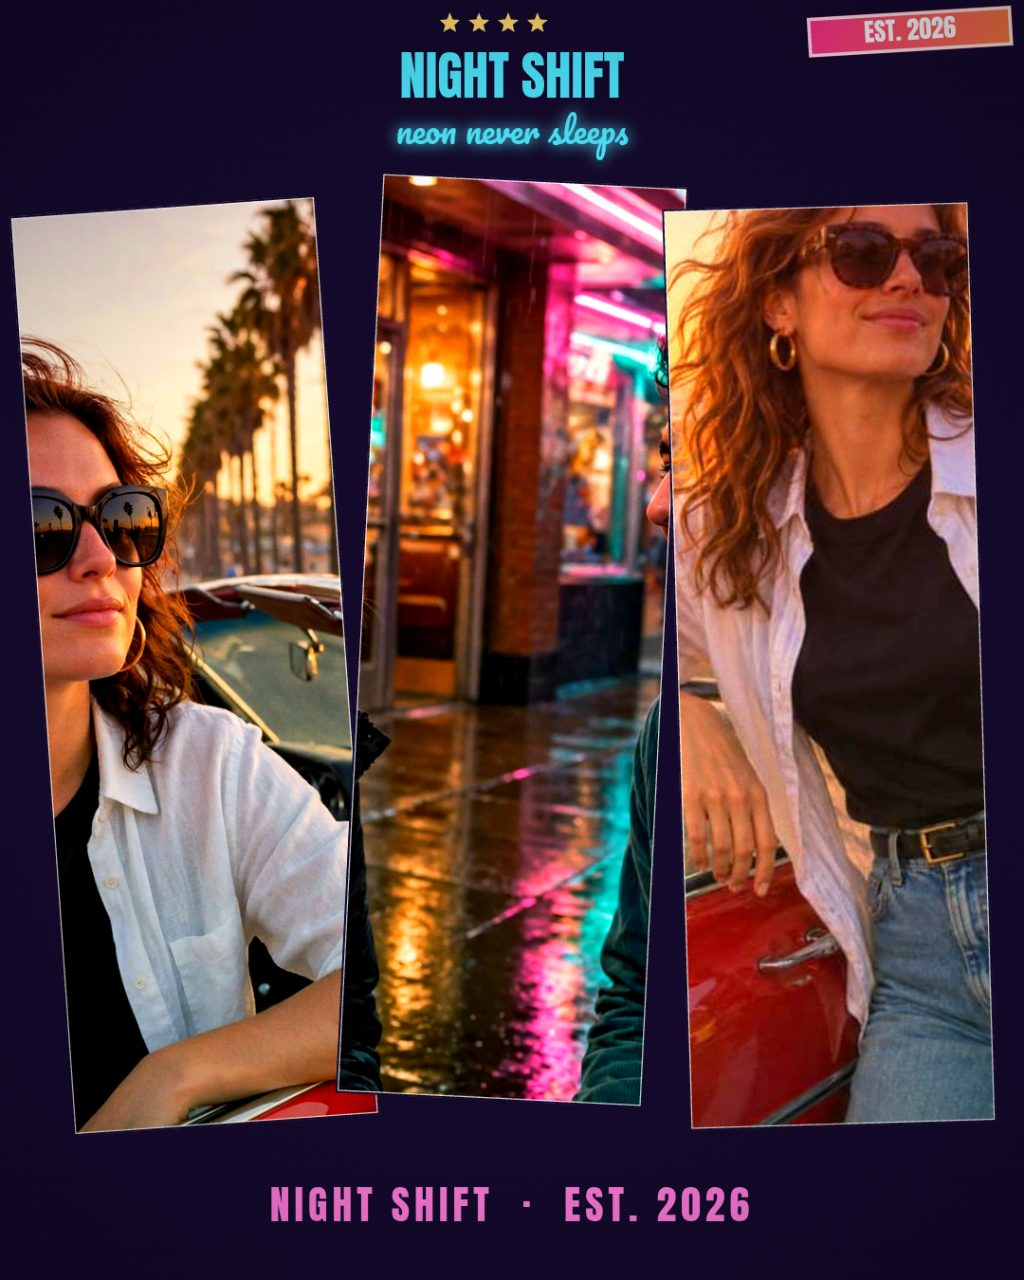
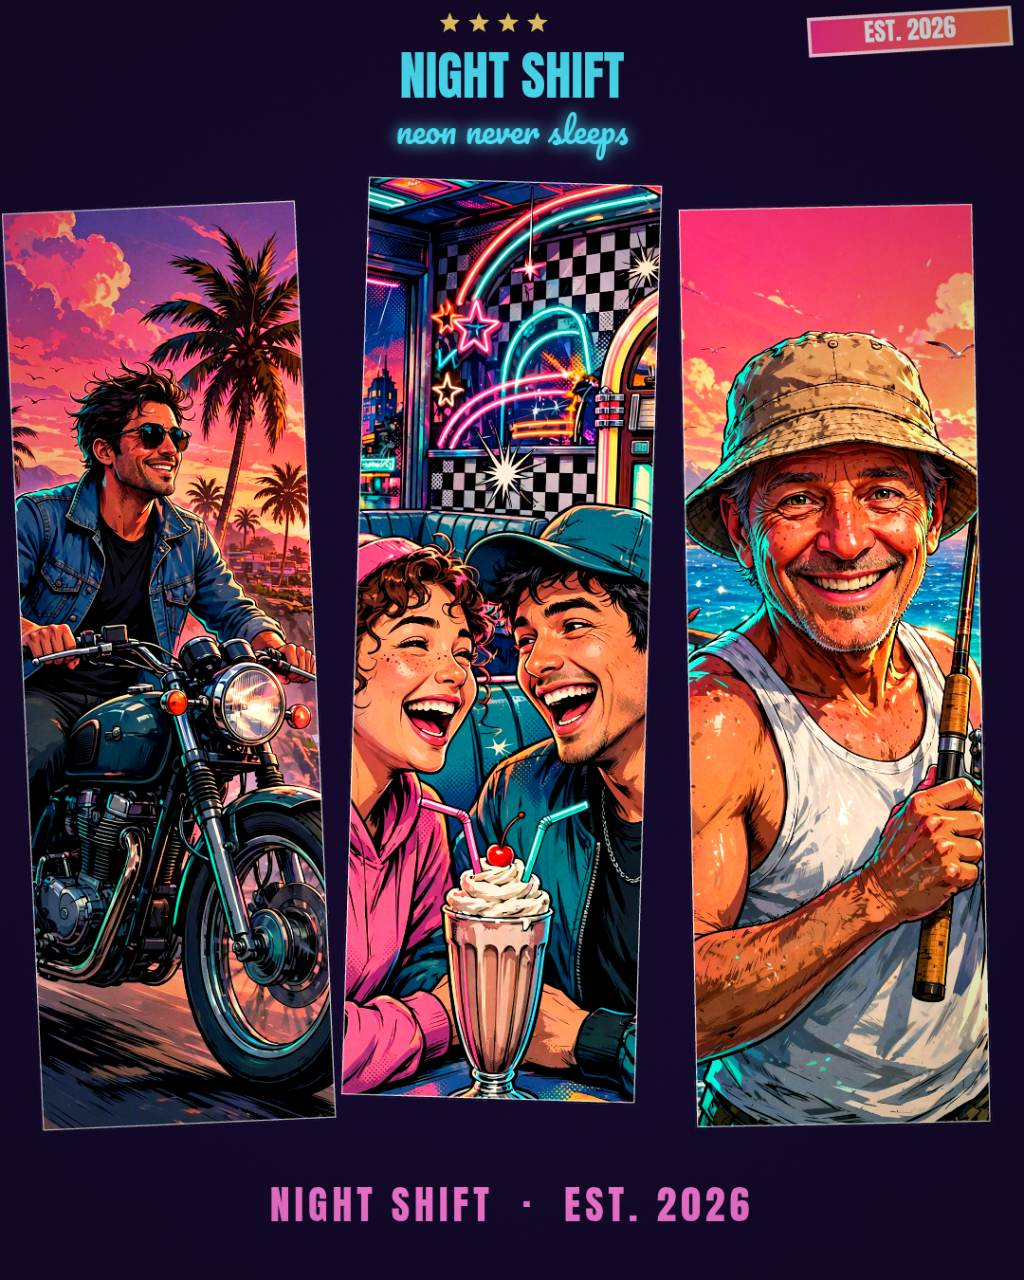
Neon Coast Cover Studio: 6 layouts, 5 grades, Anton+Pacifico, undo/redo, 3-size export

diff --git a/app/src/cover.js b/app/src/cover.js
@@ -7,6 +7,7 @@
 
 export const LAYOUTS = [
   { id: 'grid9', name: 'Nine Panel', panels: 8 },
+  { id: 'collage', name: 'Collage', panels: 9 },
   { id: 'hero3', name: 'Hero + 3', panels: 4 },
   { id: 'fullbleed', name: 'Full Bleed', panels: 1 },
   { id: 'tilted', name: 'Tilted Snaps', panels: 3 },
@@ -53,18 +54,20 @@ export const SIZES = [
   { id: 'wide', label: 'Wide 1920 x 1080', w: 1920, h: 1080 },
 ];
 
-/** A fresh default state. `panels` holds nine crop configs; each layout uses the ones it needs. */
+/** A fresh default state. `panels` holds nine crop configs; each layout uses the ones it needs.
+ * Every panel uses a DIFFERENT sample photo (no repeats), and each crop is
+ * centred on its photo's face, so no face is ever cut by a panel edge. */
 export function defaultState() {
   const crops = [
-    { photo: 0, cx: 0.5, cy: 0.42, zoom: 1.15 },
-    { photo: 1, cx: 0.5, cy: 0.5, zoom: 1.1 },
-    { photo: 2, cx: 0.5, cy: 0.55, zoom: 1.2 },
-    { photo: 3, cx: 0.5, cy: 0.5, zoom: 1.0 },
-    { photo: 1, cx: 0.62, cy: 0.45, zoom: 1.35 },
-    { photo: 0, cx: 0.38, cy: 0.5, zoom: 1.25 },
-    { photo: 3, cx: 0.5, cy: 0.6, zoom: 1.15 },
-    { photo: 2, cx: 0.45, cy: 0.45, zoom: 1.3 },
-    { photo: 0, cx: 0.55, cy: 0.5, zoom: 1.05 },
+    { photo: 12, cx: 0.25, cy: 0.50, zoom: 1.0 },  // mafia: landscape art, mobster on the left
+    { photo: 13, cx: 0.55, cy: 0.50, zoom: 1.0 },  // bikini-drink: face + cocktail
+    { photo: 14, cx: 0.55, cy: 0.55, zoom: 1.0 },  // lambo: driver face clear of the V logo's top edge
+    { photo: 8, cx: 0.70, cy: 0.47, zoom: 1.4 },   // convertible: red classic, driver zoomed big
+    { photo: 6, cx: 0.5, cy: 0.25, zoom: 1.3 },    // skater: face fully in frame, not under the title
+    { photo: 4, cx: 0.45, cy: 0.40, zoom: 1.3 },   // lifeguard: face + chest tattoos in frame
+    { photo: 9, cx: 0.57, cy: 0.55, zoom: 1.0 },   // oceandrive: Black rider standing stunt on a sport bike, neon street
+    { photo: 10, cx: 0.55, cy: 0.55, zoom: 1.0 },  // alligator: head right, low in frame
+    { photo: 11, cx: 0.5, cy: 0.58, zoom: 1.0 },   // dog: bar trio — guy with pistol, two girls with cocktails; cy 0.58 keeps faces + pistol in the wide slot
   ];
   return {
     layout: 'grid9',
@@ -111,6 +114,22 @@ export function layoutSlots(layoutId, W, H) {
         }
       }
     }
+  } else if (layoutId === 'collage') {
+    // A key-art collage, not a uniform grid: two tall panels down the left
+    // (mafia, bikini), two wide car panels across the top, three mid panels
+    // and two wide panels at the foot, with the title block overlapping the
+    // top/middle seam in the centre like a poster logo. Panel sizes vary on
+    // purpose; every slot shows a different photo, nine in all.
+    slots.push({ x: 0, y: 0, w: W * 0.25, h: H * 0.50, panel: 0, rot: 0, kind: 'photo' });
+    slots.push({ x: 0, y: H * 0.50, w: W * 0.25, h: H * 0.50, panel: 1, rot: 0, kind: 'photo' });
+    slots.push({ x: W * 0.25, y: 0, w: W * 0.37, h: H * 0.34, panel: 2, rot: 0, kind: 'photo' });
+    slots.push({ x: W * 0.62, y: 0, w: W * 0.38, h: H * 0.34, panel: 3, rot: 0, kind: 'photo' });
+    slots.push({ x: W * 0.25, y: H * 0.34, w: W * 0.25, h: H * 0.33, panel: 4, rot: 0, kind: 'photo' });
+    slots.push({ x: W * 0.50, y: H * 0.34, w: W * 0.25, h: H * 0.33, panel: 5, rot: 0, kind: 'photo' });
+    slots.push({ x: W * 0.75, y: H * 0.34, w: W * 0.25, h: H * 0.33, panel: 6, rot: 0, kind: 'photo' });
+    slots.push({ x: W * 0.25, y: H * 0.67, w: W * 0.37, h: H * 0.33, panel: 7, rot: 0, kind: 'photo' });
+    slots.push({ x: W * 0.62, y: H * 0.67, w: W * 0.38, h: H * 0.33, panel: 8, rot: 0.03, kind: 'photo' });
+    slots.push({ x: W * 0.29, y: H * 0.22, w: W * 0.36, h: H * 0.32, panel: -1, rot: 0, kind: 'logo' });
   } else if (layoutId === 'hero3') {
     const hw = W * 0.62;
     const rw = W - hw - g;
@@ -125,12 +144,15 @@ export function layoutSlots(layoutId, W, H) {
     slots.push({ x: 0, y: H * 0.72, w: W, h: H * 0.28, panel: -1, rot: 0, kind: 'band', bandStyle: 'bottom' });
   } else if (layoutId === 'tilted') {
     slots.push({ x: 0, y: 0, w: W, h: H * 0.13, panel: -1, rot: 0, kind: 'band', bandStyle: 'top' });
-    const cw = W * 0.3;
+    // Narrower cards with wider gaps and gentler tilts: a rotated card's
+    // corner must never cross the gap into its neighbour, or a sliver of the
+    // neighbour's face peeks out at the card edge.
+    const cw = W * 0.29;
     const ch = H * 0.72;
     const y = H * 0.16;
-    slots.push({ x: W * 0.04, y, w: cw, h: ch, panel: 0, rot: -0.07, kind: 'photo' });
-    slots.push({ x: W * 0.35, y: y - H * 0.02, w: cw, h: ch, panel: 1, rot: 0.05, kind: 'photo' });
-    slots.push({ x: W * 0.66, y, w: cw, h: ch, panel: 2, rot: -0.03, kind: 'photo' });
+    slots.push({ x: W * 0.02, y, w: cw, h: ch, panel: 0, rot: -0.045, kind: 'photo' });
+    slots.push({ x: W * 0.345, y: y - H * 0.02, w: cw, h: ch, panel: 1, rot: 0.03, kind: 'photo' });
+    slots.push({ x: W * 0.67, y, w: cw, h: ch, panel: 2, rot: -0.02, kind: 'photo' });
     slots.push({ x: 0, y: H * 0.92, w: W, h: H * 0.05, panel: -1, rot: 0, kind: 'footer' });
   } else if (layoutId === 'sleeve6') {
     const cw = (W - 2 * g) / 3;
@@ -327,6 +349,96 @@ function drawTitleBlock(ctx, slot, state, grade, W, H) {
     try { ctx.letterSpacing = `${Math.max(1, size * 0.12)}px`; } catch { /* older canvas */ }
     ctx.fillText(text, x + w / 2, y + h / 2);
     try { ctx.letterSpacing = '0px'; } catch { /* older canvas */ }
+    ctx.restore();
+    return;
+  }
+
+  // Collage logo block: a slim V chevron (after the big V silhouette in
+  // Risma's reference — the shape only, never the Rockstar logo itself),
+  // sunset-gradient fill, white Anton text with a dark outline. The V covers
+  // far less of the photos than the old wide rectangle (its point sits
+  // between the skater and lifeguard panels, below both faces), and the type
+  // is nearly twice as big. The subtitle floats just under the point.
+  if (kind === 'logo') {
+    const cx = x + w / 2;
+    const logoTitle = (state.title || 'NEON COAST').toUpperCase();
+    const logoLines = logoTitle.split(/\s+/).filter(Boolean);
+    const grad = ctx.createLinearGradient(x, y, x + w, y + h);
+    grad.addColorStop(0, '#7c5cff');
+    grad.addColorStop(0.45, '#ff5e9c');
+    grad.addColorStop(1, '#ff8a3c');
+    ctx.beginPath();
+    ctx.moveTo(x, y);
+    ctx.lineTo(x + w, y);
+    ctx.lineTo(cx, y + h);
+    ctx.closePath();
+    ctx.fillStyle = grad;
+    ctx.fill();
+    ctx.lineWidth = Math.max(3, w * 0.012);
+    ctx.strokeStyle = '#14092b';
+    ctx.stroke();
+    ctx.lineWidth = Math.max(1, w * 0.003);
+    ctx.strokeStyle = 'rgba(255,46,136,0.9)';
+    ctx.stroke();
+
+    const pad = w * 0.04;
+    const bandH = h * 0.30;
+    const lineTs = [0.30, 0.58];
+    let size = bandH;
+    logoLines.forEach((line, i) => {
+      const t = i < lineTs.length ? lineTs[i] : 0.58 + 0.22 * (i - 1);
+      const maxW = w * (1 - t) - pad * 2;
+      size = Math.min(size, fitFont(ctx, line, 'Anton, sans-serif', 400, maxW, bandH));
+    });
+    size = Math.max(10, size);
+    ctx.textAlign = 'center';
+    ctx.textBaseline = 'middle';
+    logoLines.forEach((line, i) => {
+      const t = i < lineTs.length ? lineTs[i] : 0.58 + 0.22 * (i - 1);
+      const cy = y + h * t;
+      ctx.font = `400 ${size}px Anton, sans-serif`;
+      ctx.lineWidth = Math.max(1, size * 0.08);
+      ctx.strokeStyle = '#14092b';
+      ctx.strokeText(line, cx, cy);
+      ctx.fillStyle = '#ffffff';
+      ctx.fillText(line, cx, cy);
+    });
+    const sub = (state.subtitle || '').trim();
+    if (sub) {
+      // The tagline rides on a small dark pill just under the point, so it
+      // stays readable over the busy photos instead of sprawling across
+      // the skater's and lifeguard's necks.
+      const subSize = fitFont(ctx, sub, 'Pacifico, cursive', 400, w * 0.85, h * 0.13);
+      ctx.font = `400 ${subSize}px Pacifico, cursive`;
+      const subY = y + h + h * 0.10;
+      const textW = ctx.measureText(sub).width;
+      const pillW = textW + subSize * 1.2;
+      const pillH = subSize * 1.9;
+      const px = cx - pillW / 2;
+      const py = subY - pillH / 2;
+      const r = pillH / 2;
+      ctx.beginPath();
+      ctx.moveTo(px + r, py);
+      ctx.lineTo(px + pillW - r, py);
+      ctx.arcTo(px + pillW, py, px + pillW, py + r, r);
+      ctx.lineTo(px + pillW, py + pillH - r);
+      ctx.arcTo(px + pillW, py + pillH, px + pillW - r, py + pillH, r);
+      ctx.lineTo(px + r, py + pillH);
+      ctx.arcTo(px, py + pillH, px, py + pillH - r, r);
+      ctx.lineTo(px, py + r);
+      ctx.arcTo(px, py, px + r, py, r);
+      ctx.closePath();
+      ctx.fillStyle = '#14092b';
+      ctx.fill();
+      ctx.lineWidth = Math.max(1, subSize * 0.06);
+      ctx.strokeStyle = '#ff2e88';
+      ctx.stroke();
+      ctx.fillStyle = grade.sub;
+      ctx.shadowColor = grade.sub;
+      ctx.shadowBlur = subSize * 0.35;
+      ctx.fillText(sub, cx, subY);
+      ctx.shadowBlur = 0;
+    }
     ctx.restore();
     return;
   }

diff --git a/app/src/shots.js b/app/src/shots.js
@@ -1,7 +1,12 @@
 // Fixed scenes for screenshots: ?shot=editor shows the page with a sample photo;
 // ?shot=cover shows the cover alone at the size the query asks for (w, h).
 // layout, grade, title, subtitle, badge, heat and halftone come from the query.
+// panels=<panel:photo:cx:cy:zoom;...> overrides individual panel crops for the
+// shot, so a screenshot can frame each photo exactly (a different photo in
+// every panel, every face whole) without changing the editor's default state.
 // window.__shotReady is set once the fonts are loaded and the cover is painted.
+import { defaultState } from './cover.js';
+
 export async function runShot(shot, query, api) {
   if (shot === 'cover') document.body.classList.add('shot-cover');
   if (shot === 'editor') document.body.classList.add('shot-editor');
@@ -16,6 +21,16 @@ export async function runShot(shot, query, api) {
   if (query.get('halftone')) patch.halftone = query.get('halftone') === '1';
   if (query.get('grain')) patch.grain = query.get('grain') === '1';
   if (query.get('vignette')) patch.vignette = query.get('vignette') === '1';
+  if (query.get('panels')) {
+    const panels = defaultState().panels.map((p) => ({ ...p }));
+    for (const part of query.get('panels').split(';')) {
+      const [panel, photo, cx, cy, zoom] = part.split(':').map(Number);
+      if (Number.isInteger(panel) && panels[panel] && Number.isInteger(photo)) {
+        panels[panel] = { photo, cx, cy, zoom };
+      }
+    }
+    patch.panels = panels;
+  }
   await api.loadSamples();
   try {
     await Promise.race([

diff --git a/app/src/main.js b/app/src/main.js
@@ -9,8 +9,19 @@ import { runShot } from './shots.js';
 const SAMPLES = [
   { name: 'woman-car', src: 'samples/woman-car.jpg' },
   { name: 'friends-neon', src: 'samples/friends-neon.jpg' },
-  { name: 'boulevard', src: 'samples/boulevard.jpg' },
+  { name: 'motorcycle', src: 'samples/motorcycle.jpg' },
+  { name: 'diner', src: 'samples/diner.jpg' },
+  { name: 'lifeguard', src: 'samples/lifeguard.jpg' },
+  { name: 'yacht', src: 'samples/yacht.jpg' },
+  { name: 'skater', src: 'samples/skater.jpg' },
   { name: 'pier', src: 'samples/pier.jpg' },
+  { name: 'convertible', src: 'samples/convertible.jpg' },
+  { name: 'oceandrive', src: 'samples/oceandrive.jpg' },
+  { name: 'alligator', src: 'samples/alligator.jpg' },
+  { name: 'dog', src: 'samples/dog.jpg' },
+  { name: 'mafia', src: 'samples/mafia.jpg' },
+  { name: 'bikini-drink', src: 'samples/bikini-drink.jpg' },
+  { name: 'lambo', src: 'samples/lambo.jpg' },
 ];
 
 const canvas = document.getElementById('cover');

diff --git a/main.ts b/main.ts
@@ -5,7 +5,7 @@
 // The app is a cover maker: six multi-panel layouts (nine-panel grid with a halftone title block, hero + three,
 // full bleed, tilted snapshots, six-panel sleeve, poster), five gradient-map grades with grain, vignette and
 // halftone, Anton + Pacifico lettering (OFL, vendored), drag/zoom crop per panel, undo/redo, and one-click PNG
-// export in 1080 x 1080, 1080 x 1350 and 1920 x 1080. Its four sample photos (app/samples/) are AI-made originals,
+// export in 1080 x 1080, 1080 x 1350 and 1920 x 1080. Its twelve sample photos (app/samples/) are AI-made originals,
 // free to use. Put your 3 or 4 PNG or JPEG screenshots in screenshots/ (the first by name is the cover) and run it.
 //
 // Serve it locally with `node serve.ts`, then open http://localhost:8080.

diff --git a/NOTES.md b/NOTES.md
@@ -9,6 +9,11 @@ click, then lets the user restyle it live.
 ## Layouts (app/src/cover.js)
 
 - **grid9** — 3×3, eight photo panels around a centre title block (default).
+- **collage** — key-art collage: nine photo panels (two tall panels down
+  the left, two wide car panels across the top, three mid panels, two wide
+  panels at the foot, one tilted) with the title block overlapping the
+  top/middle seam in the centre like a poster logo (used for the main
+  cover screenshot).
 - **hero3** — one wide hero photo plus three stacked panels.
 - **fullbleed** — one photo edge to edge with a bottom title band.
 - **tilted** — three rotated snapshot cards with a header band and footer strip.
@@ -31,13 +36,109 @@ dot screen on the title block.
   render already uses them.
 - A five-star heat meter and an "EST. 2026" badge ribbon finish the title block.
 
+## Art style (round 2, rev 4 — illustration, not photos)
+
+Per Risma's direction ("ganti art-nya seperti GTA 6 saat ini"), all fifteen
+samples are now **bold comic-book style digital-painting illustrations** in
+the GTA VI key-art manner — thick clean outlines, cel shading, saturated
+sunset pink-orange and neon teal, dramatic rim lighting — generated with one
+shared style prompt so the set is consistent. Same fifteen scenes as
+before, same filenames, so the SAMPLES list and the shots.json panel indices
+are unchanged. All characters are original and fictional; no Rockstar
+character, logo, wordmark or font is used anywhere, and no generated image
+carries text, a logo or a watermark. The reference key art was described in
+text only and was never passed to the generator.
+
+Two framing fixes from the illustration swap: the mafia art is a wide 16:9
+landscape (2048×1152) with the mobster on the left, so the tall collage
+panel shows his whole head and the entire pistol with no dark strip (a
+portrait source at zoom < 1 left a gap because the source rect is clamped
+in cover.js); and the pier art was regenerated with the fisherman facing
+the camera so his smiling face is fully visible in the tilted layout.
+Skater crop is cy 0.25 (face below the title block, not under it) in both
+shots.json and the default state; the mafia default crop is cx 0.25 to
+match the landscape art. Screenshots 1-cover (q65) and 3-cover (q68) are
+rendered at reduced JPEG quality so each stays under the 256 KiB cap —
+the denser illustration art made q82 files 341 KB and 287 KB.
+
+## Convertible driver (round 2, rev 5)
+
+Per Risma ("beri pengemudi, jangan biarkan mobil itu berjalan sendiri"),
+the red classic convertible art was regenerated with a clearly visible
+driver: a smiling woman in sunglasses with wind-blown hair, both hands on
+the wheel, upper body prominent above the door. Same illustration style
+and scene as before, same filename. The collage crop for that panel was
+also zoomed in (cx 0.70, cy 0.47, zoom 1.4, in both cover.js default state
+and shots.json) so the driver reads big and unmistakable in the panel
+instead of a small figure — the car's nose bleeds slightly off the panel's
+left edge, which reads as an intentional poster bleed. 1-cover re-rendered
+at q65 (232,433 B, under the cap); 2-editor already shows the new art in
+its thumbnail strip and needed no re-render; 3-cover and 4-cover do not
+use the convertible and are untouched.
+
+## Stunt rider + bar trio (round 2, rev 6)
+
+Per Risma, verbatim:
+"Gambar mobil birunya ganti orang berkulit hitam sedang membawa motor dengan atraksi standing"
+"Dan gambar anjingnya ganti orang bertiga 1 cowok 2 cewek baru keluar dari bar yang cowok sedang membawa pistol yang cewe bawa minum alkohol"
+
+Both panels were replaced with new illustrations in the same style, same
+filenames (so the sample list and shot indices are untouched):
+- `oceandrive.jpg` (collage panel 6, middle-right): a Black man in a black
+  leather jacket and sunglasses performing a standing stunt on a speeding
+  sport bike — upright on the footpegs, one hand on the handlebar, the
+  other arm out for balance — down a neon-lit street at night. Crop
+  cx 0.57, cy 0.55, zoom 1.0 in both cover.js default state and shots.json.
+- `dog.jpg` (collage panel 8, bottom-right, tilted): three young people
+  just out of a neon bar — one young man holding a pistol down at his
+  side, flanked by two young women holding cocktail glasses, laughing,
+  the glowing bar doorway behind them. Crop cx 0.50, cy 0.58, zoom 1.0:
+  the wide 2.05:1 slot cannot show the whole 3:2 source at once, so cy
+  0.58 was chosen to keep all three faces and the pistol in frame (hair
+  tops are the only thing slightly trimmed). 1-cover and 2-editor
+  re-rendered; 3-cover and 4-cover do not use either panel and are
+  untouched.
+
+## Cool bar trio (round 2, rev 7)
+
+Per Risma, verbatim:
+"Adegan 3 orang itu jangan tertawa buat mereka terlihat cool"
+
+`dog.jpg` (collage panel 8, bottom-right, tilted) was regenerated in the
+same style, same filename: the same three people just out of the neon
+bar, but now cool — serious, confident expressions, slight smirks, the
+man in black sunglasses, nobody laughing. The pistol is now held clearly
+in front of the man's body at waist height, much more visible than in
+rev 6 (where it was small at full cover size). Both cocktails still
+clearly visible. Crop unchanged (cx 0.50, cy 0.58, zoom 1.0) — it still
+keeps all three faces and the pistol in frame. 1-cover (225,903 B) and
+2-editor (174,362 B) re-rendered, both ≤ 256 KiB, 0 external requests;
+3-cover and 4-cover untouched.
+
 ## Photos
 
-Four AI-made original samples (app/samples/): two sunset convertible shots,
-a neon night street, and a pier fisherman. Upload your own with the file
-picker (FileReader — photos never leave the machine) or click a thumbnail to
-assign it to the selected panel. Drag a panel to pan its photo, scroll to
-zoom (1×–4×).
+Fifteen AI-made original samples (app/samples/), one different person, car,
+animal or scene per panel: a woman in a red convertible at sunset, a
+laughing couple on a neon street, a man on a vintage motorcycle at golden
+hour, a woman laughing in a neon diner, a lifeguard by a pink tower, a
+couple laughing on a yacht at dusk, a woman with a skateboard on a neon
+street, a fisherman on a pier, a red classic convertible on a coastal road,
+a vintage car on neon Ocean Drive, an alligator in a Florida wetland, a
+golden retriever in sunglasses on the beach, a mafia man in a pinstripe
+suit holding a pistol at his side on a neon Miami street, a woman in a
+floral bikini holding a tropical cocktail by the pool, and a young man
+sitting in a yellow scissor-door supercar at sunset. Every default panel uses a
+different photo and every crop is centred on its face, so no photo repeats
+and no face is cut (round-2 fix: the first version reused four photos
+across eight panels and cropped faces at panel edges). The main cover uses
+the collage layout, which always shows a mafia man, a bikini woman with a
+drink, a Lamborghini-style supercar and a beach scene among its nine
+panels. Upload your own with the file picker (FileReader — photos never
+leave the machine) or click a thumbnail to assign it to the selected panel.
+Drag a panel to pan its photo, scroll to zoom (1×–4×). The tilted layout's
+cards are spaced so a rotated corner never crosses the gap into its
+neighbour, and screenshot scenes can pin exact per-panel crops with a
+`panels=` query (app/src/shots.js).
 
 ## Export
 
@@ -55,3 +156,24 @@ Headless SwiftShader's JPEG decode is not bit-stable across different draw
 scales: a layout round-trip shifts ~0.7% of edge pixels by >12/255, invisible
 to the eye. Undo restores the exact state (verified byte-identical); the
 interaction test therefore compares undo/redo with a 2% pixel tolerance.
+
+## Muscular tattooed men + V logo block (round 2, rev 8)
+
+Perintah Risma verbatim: "Buat laki laki nya berbadan kekar dan bertato dan buat
+seperti ini jangan terlalu lebar membuat gambar nya tertutup buat font nya lebih
+besar dan tulisan neon cast lebih besar" (dengan referensi logo GTA VI — dipakai
+hanya sebagai referensi BENTUK, logo Rockstar tidak pernah disalin ke app atau
+gambar).
+
+- Kelima karakter laki-laki diregenerasi sebagai ilustrasi kekar bertato dengan
+  gaya yang sama: mafia (tato tengkorak di tangan, tato harimau di dada),
+  lambo (tato naga di lengan), lifeguard (tato hiu dan ombak di dada/lengan,
+  crop cy 0.40 supaya tato dada masuk frame), stunt rider (tato di lengan dan
+  leher), dan trio bar (HANYA si cowok yang kekar bertato; kedua cewek tetap
+  cool seperti rev 7, komposisi dan ekspresi sama).
+- Blok judul layout Collage bukan lagi kotak lebar: sekarang chevron V ramping
+  (inspirasi siluet "VI") bergradien sunset ungu-pink-oranye, menutupi gambar
+  jauh lebih sedikit — ujung V jatuh di antara panel skater dan lifeguard, di
+  bawah kedua wajah — dengan tulisan NEON COAST putih ber-outline gelap yang
+  hampir dua kali lebih besar, dan tagline "chase the sunset" melayang tepat
+  di bawah ujung V.
